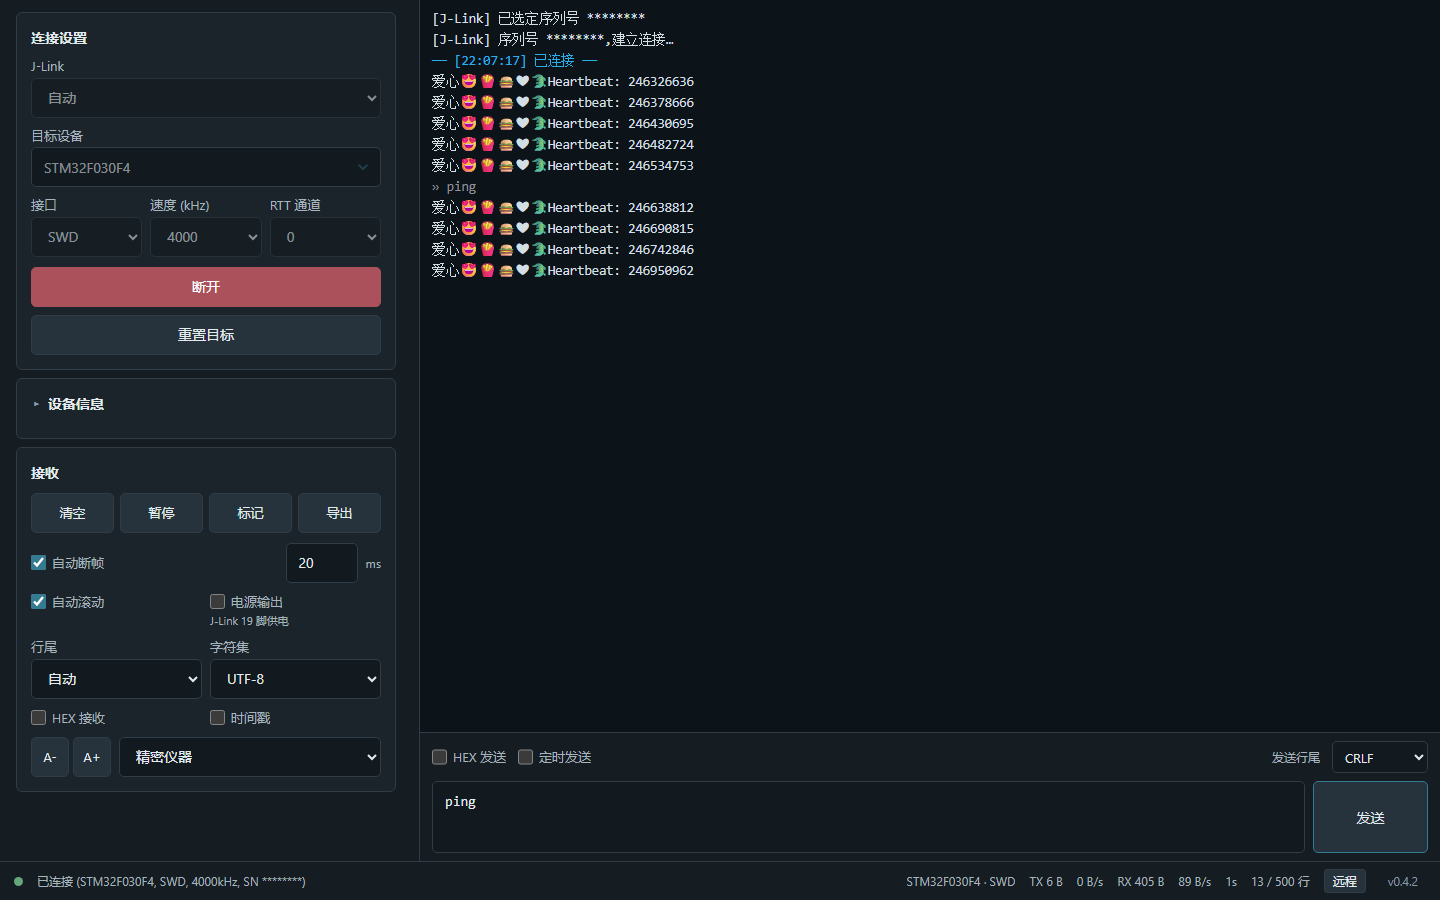
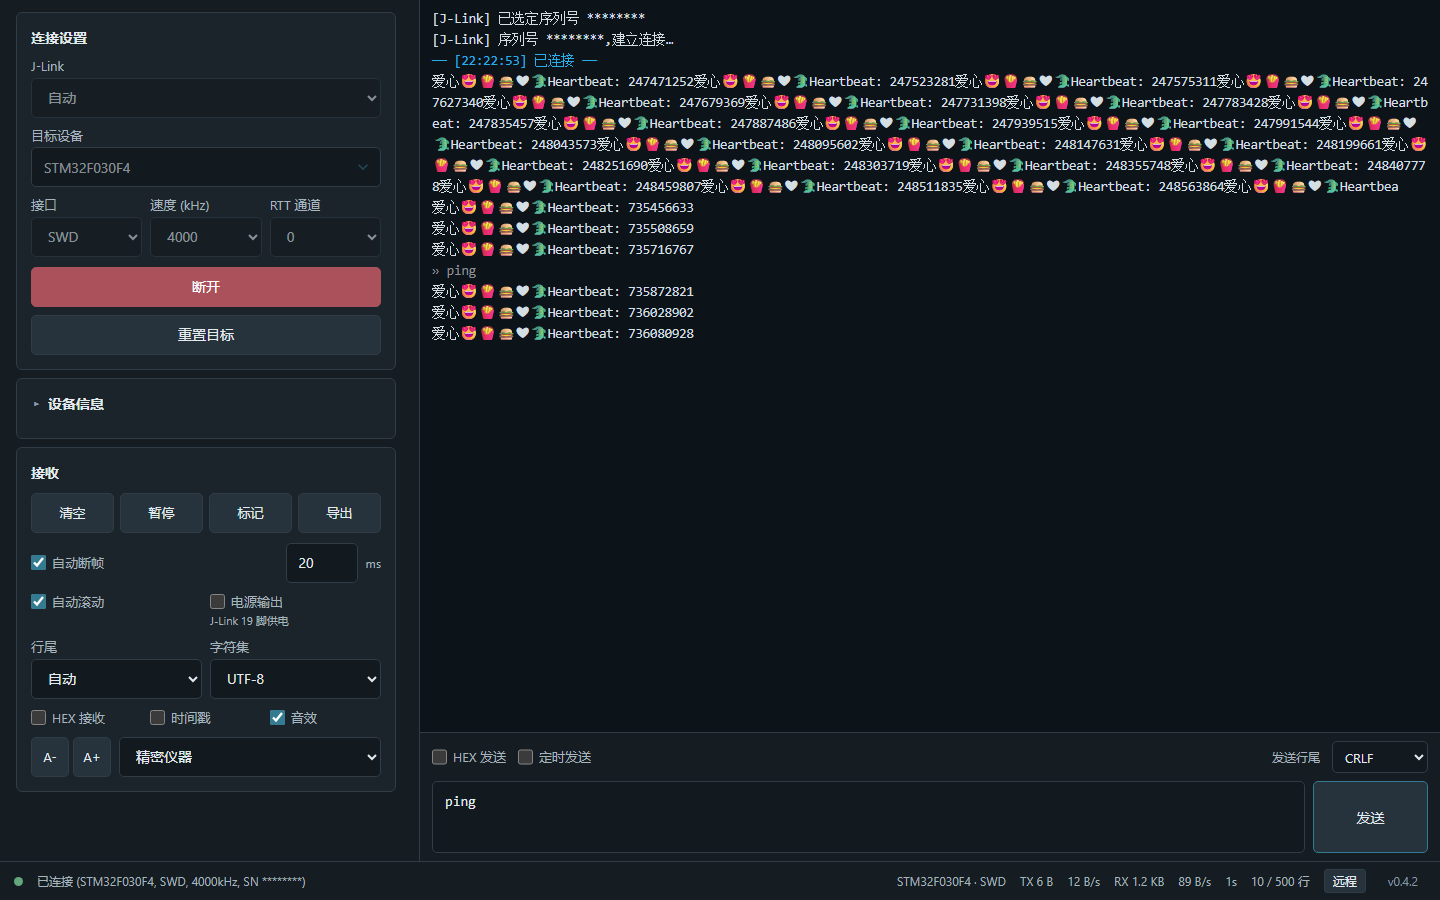
feat: 添加极简正弦波界面音效

Changed region(s): [[0.2812, 0.0622, 1.0, 0.3733], [0.625, 0.9644, 0.8125, 0.9956], [0.0938, 0.7778, 0.2188, 0.8089]]

diff --git a/ui/web/sound.js b/ui/web/sound.js
@@ -1,0 +1,69 @@
+import { $, lsGet, lsSet } from './api.js';
+
+// Minimal / Flat:每个反馈只发一只低音量正弦波,不用采样、扫频或和弦。
+const tones = {
+  connect: { frequency: 660, duration: 0.070, level: 0.030 },
+  disconnect: { frequency: 330, duration: 0.070, level: 0.030 },
+  send: { frequency: 880, duration: 0.040, level: 0.025 },
+  error: { frequency: 220, duration: 0.090, level: 0.030 },
+  enabled: { frequency: 520, duration: 0.035, level: 0.025 },
+};
+
+let context = null;
+let enabled = true;
+let initialized = false;
+
+// AudioContext 只能在用户手势里创建/恢复;页面加载和日志流绝不触碰音频。
+export function unlockSound() {
+  if (!enabled) return Promise.resolve(false);
+  const AudioContextClass = window.AudioContext || window.webkitAudioContext;
+  if (!AudioContextClass) return Promise.resolve(false);
+  try {
+    if (!context) context = new AudioContextClass();
+    if (context.state === 'running') return Promise.resolve(true);
+    return Promise.resolve(context.resume())
+      .then(() => context.state === 'running')
+      .catch(() => false);
+  } catch {
+    return Promise.resolve(false);
+  }
+}
+
+export function playSound(name) {
+  const tone = tones[name];
+  if (!enabled || !tone || !context || context.state !== 'running') return;
+  const start = context.currentTime;
+  const oscillator = context.createOscillator();
+  const gain = context.createGain();
+  oscillator.type = 'sine';
+  oscillator.frequency.setValueAtTime(tone.frequency, start);
+  // 4ms 起音 + 指数释音,避免方波式咔哒声;末尾保留 5ms 静音余量。
+  gain.gain.setValueAtTime(0.0001, start);
+  gain.gain.exponentialRampToValueAtTime(tone.level, start + 0.004);
+  gain.gain.exponentialRampToValueAtTime(0.0001, start + tone.duration);
+  oscillator.connect(gain);
+  gain.connect(context.destination);
+  oscillator.onended = () => {
+    oscillator.disconnect();
+    gain.disconnect();
+  };
+  oscillator.start(start);
+  oscillator.stop(start + tone.duration + 0.005);
+}
+
+export function initSound() {
+  if (initialized) return;
+  initialized = true;
+  enabled = lsGet('sound') !== '0';
+  const toggle = $('sound-enabled');
+  toggle.checked = enabled;
+  toggle.addEventListener('change', () => {
+    enabled = toggle.checked;
+    lsSet('sound', enabled ? '1' : '0');
+    if (enabled) unlockSound().then(ok => { if (ok) playSound('enabled'); });
+  });
+  document.addEventListener('pointerdown', unlockSound, { passive: true });
+  document.addEventListener('keydown', event => {
+    if (event.key === 'Enter' || event.key === ' ') unlockSound();
+  });
+}

diff --git a/ui/web/app.js b/ui/web/app.js
@@ -3,6 +3,7 @@ import { fmtBytes as fmt, fmtRate, fmtUptime } from './log-view.js';
 import { createSearch } from './search.js';
 import { hexToText, initDisplaySettings, textToHex } from './settings.js';
 import { initDialogs, showToast } from './dialogs.js';
+import { initSound, playSound } from './sound.js';
 
 const log = $('log');
 let connected = false, autoScroll = true;
@@ -105,7 +106,9 @@ function updateRates(m) {
 function zeroRates() { $('rx-rate').textContent = '0 B/s'; $('tx-rate').textContent = '0 B/s'; lastStats = null; }
 // 单只主按钮:「连接」(accent)⇄「断开」(红色系 danger)切换
 function setState(on, status) {
+  const changed = connected !== on;
   connected = on;
+  if (changed) playSound(on ? 'connect' : 'disconnect');
   $('dot').classList.toggle('on', on);
   if (status) $('status').textContent = status.replace('● ', '');
   // S1/S2:断开清零(速率归零显示、时长归 0、字节快照复位)
@@ -371,6 +374,7 @@ function send() {
       sendHistory.unshift(v);
       if (sendHistory.length > 50) sendHistory.pop();
       histIdx = -1; draft = '';
+      playSound('send');
     })
     .catch(error => {
       sendBox.classList.add('send-err');
@@ -417,6 +421,7 @@ $('timestamps').addEventListener('change', e => {
 });
 
 initDisplaySettings();
+initSound();
 
 const search = createSearch({ log, postSettings, timestamps: () => tsOn });
 

diff --git a/ui/web/styles.css b/ui/web/styles.css
@@ -127,7 +127,7 @@ details[open] > summary.title::before { content: '▾'; }
 .power-row { display: grid; grid-template-columns: 1fr 1fr; align-items: start; gap: 8px; }
 .power-group { display: flex; flex-direction: column; gap: 2px; }
 .power-note { color: var(--secondary); font-size: 11px; }
-.receive-toggles { display: grid; grid-template-columns: 1fr 1fr; gap: 8px; }
+.receive-toggles { display: grid; grid-template-columns: repeat(3, minmax(0, 1fr)); gap: 8px; }
 .theme-row { display: flex; align-items: center; gap: 8px; }
 .font-controls { display: flex; flex: none; gap: 4px; }
 .font-controls button { width: 38px; height: 40px; padding: 0; font-size: 13px; }

diff --git a/ui/web/index.html b/ui/web/index.html
@@ -82,6 +82,7 @@
         <div class="row2 receive-toggles">
           <label class="check"><input type="checkbox" id="hex-rx"> HEX 接收</label>
           <label class="check" title="行首显示本机到达时刻 [HH:MM:SS.mmm](仅开关打开后到达的行)"><input type="checkbox" id="timestamps"> 时间戳</label>
+          <label class="check" title="连接、断开、发送和错误的短促正弦波反馈"><input type="checkbox" id="sound-enabled" checked> 音效</label>
         </div>
         <div class="theme-row">
           <div class="font-controls" aria-label="日志字号">

diff --git a/ui/web/dialogs.js b/ui/web/dialogs.js
@@ -1,9 +1,11 @@
 import { $, getJson, postJson, request } from './api.js';
+import { playSound } from './sound.js';
 
 let toastEl = null;
 let toastTimer = 0;
 
 export function showToast(message, kind) {
+  if (kind !== 'ok') playSound('error');
   if (!toastEl) {
     toastEl = document.createElement('div');
     toastEl.id = 'toast';

diff --git a/tests/web/test_sound.py b/tests/web/test_sound.py
@@ -1,0 +1,150 @@
+"""极简音效:用户手势解锁、短正弦波、静音持久化。"""
+
+import json
+import urllib.request
+
+import pytest
+from playwright.sync_api import sync_playwright
+
+from qa_server import BASE, QAServer
+
+
+FAKE_AUDIO = """
+window.__tones = [];
+window.__audioContextCount = 0;
+class FakeParam {
+  constructor() { this.value = 0; }
+  setValueAtTime(value) { this.value = value; }
+  exponentialRampToValueAtTime(value) { this.value = value; }
+}
+class FakeOscillator {
+  constructor() { this.frequency = new FakeParam(); this.type = ''; }
+  connect() {}
+  disconnect() {}
+  start(time) { this.startedAt = time; window.__tones.push(this); }
+  stop(time) { this.stoppedAt = time; }
+}
+class FakeGain {
+  constructor() { this.gain = new FakeParam(); }
+  connect() {}
+  disconnect() {}
+}
+class FakeAudioContext {
+  constructor() {
+    window.__audioContextCount++;
+    this.state = 'suspended';
+    this.currentTime = 10;
+    this.destination = {};
+  }
+  resume() { this.state = 'running'; return Promise.resolve(); }
+  createOscillator() { return new FakeOscillator(); }
+  createGain() { return new FakeGain(); }
+}
+window.AudioContext = FakeAudioContext;
+window.webkitAudioContext = FakeAudioContext;
+"""
+
+
+@pytest.fixture(scope="module")
+def server(tmp_path_factory):
+    srv = QAServer(tmp_path_factory.mktemp("sound-qa"))
+    srv.start()
+    yield srv
+    srv.stop()
+
+
+@pytest.fixture(scope="module")
+def browser():
+    with sync_playwright() as p:
+        instance = p.chromium.launch()
+        yield instance
+        instance.close()
+
+
+@pytest.fixture
+def page(browser, server):
+    pg = browser.new_page(viewport={"width": 1440, "height": 900})
+    pg.add_init_script(FAKE_AUDIO)
+    pg.goto(BASE)
+    status = json.load(urllib.request.urlopen(BASE + "/api/status"))
+    if not status["connected"]:
+        pg.click("#connect-btn")
+    pg.wait_for_selector("#send-btn:not([disabled])")
+    yield pg
+    pg.close()
+
+
+def send(page, text="ping"):
+    page.fill("#send-text", text)
+    with page.expect_response(lambda r: "/api/send" in r.url, timeout=5000) as response:
+        page.click("#send-btn")
+    assert response.value.status == 200
+
+
+def test_fr29_no_audio_or_log_noise_before_user_gesture(page):
+    page.wait_for_selector("#log .row")
+    page.wait_for_timeout(200)
+    assert page.evaluate("window.__audioContextCount") == 0
+    assert page.evaluate("window.__tones.length") == 0
+
+
+def test_fr29_successful_send_plays_one_short_sine_tone(page):
+    send(page)
+    page.wait_for_function("window.__tones.length === 1")
+    tone = page.evaluate("""() => {
+      const t = window.__tones[0];
+      return {type: t.type, frequency: t.frequency.value,
+              durationMs: (t.stoppedAt - t.startedAt) * 1000};
+    }""")
+    assert tone["type"] == "sine"
+    assert 800 <= tone["frequency"] <= 1000
+    assert 20 <= tone["durationMs"] <= 100
+    assert page.input_value("#send-text") == "ping"
+
+
+def test_fr29_connection_and_disconnection_use_distinct_single_tones(page):
+    page.click("#connect-btn")
+    page.wait_for_function("document.querySelector('#connect-btn').textContent.trim() === '连接'")
+    page.wait_for_function("window.__tones.length === 1")
+    page.click("#connect-btn")
+    page.wait_for_function("document.querySelector('#connect-btn').textContent.trim() === '断开'")
+    page.wait_for_function("window.__tones.length === 2")
+    tones = page.evaluate(
+        "window.__tones.map(t => ({type: t.type, frequency: t.frequency.value}))"
+    )
+    assert [tone["type"] for tone in tones] == ["sine", "sine"]
+    assert tones[0]["frequency"] < tones[1]["frequency"]
+
+
+def test_fr29_sound_switch_persists_and_mutes_feedback(page):
+    page.uncheck("#sound-enabled")
+    assert page.evaluate("localStorage.getItem('web-sound')") == "0"
+    page.reload()
+    page.wait_for_selector("#send-btn:not([disabled])")
+    assert not page.locator("#sound-enabled").is_checked()
+    send(page)
+    page.wait_for_timeout(200)
+    assert page.evaluate("window.__tones.length") == 0
+
+    page.check("#sound-enabled")
+    assert page.evaluate("localStorage.getItem('web-sound')") == "1"
+    page.wait_for_function("window.__tones.length === 1")
+    page.reload()
+    page.wait_for_selector("#sound-enabled")
+    assert page.locator("#sound-enabled").is_checked()
+
+
+def test_fr29_send_error_uses_one_low_short_tone(page):
+    page.route("**/api/send", lambda route: route.fulfill(status=500, body="测试失败"))
+    page.fill("#send-text", "ping")
+    page.click("#send-btn")
+    page.wait_for_selector("#toast.show")
+    page.wait_for_function("window.__tones.length === 1")
+    tone = page.evaluate("""() => {
+      const t = window.__tones[0];
+      return {type: t.type, frequency: t.frequency.value,
+              durationMs: (t.stoppedAt - t.startedAt) * 1000};
+    }""")
+    assert tone["type"] == "sine"
+    assert 180 <= tone["frequency"] <= 300
+    assert 20 <= tone["durationMs"] <= 120

diff --git a/src/web.rs b/src/web.rs
@@ -120,6 +120,7 @@ const LOG_VIEW_JS: &str = include_str!("../ui/web/log-view.js");
 const SEARCH_JS: &str = include_str!("../ui/web/search.js");
 const SETTINGS_JS: &str = include_str!("../ui/web/settings.js");
 const DIALOGS_JS: &str = include_str!("../ui/web/dialogs.js");
+const SOUND_JS: &str = include_str!("../ui/web/sound.js");
 /// favicon(build 时内嵌,不依赖进程工作目录;运行时读 assets/ 在 cwd 不对时 404)
 const FAVICON: &[u8] = include_bytes!("../assets/app-32.png");
 /// 会话标记行颜色(与桌面版 MARK_COLOR 一致)
@@ -379,6 +380,10 @@ async fn serve(
         .route(
             "/dialogs.js",
             get(|| async { embedded_asset(DIALOGS_JS, "text/javascript; charset=utf-8") }),
+        )
+        .route(
+            "/sound.js",
+            get(|| async { embedded_asset(SOUND_JS, "text/javascript; charset=utf-8") }),
         )
         .route("/api/status", get(api_status))
         .route("/api/backends", get(api_backends))

diff --git a/tests/web/test_layout_accessibility.py b/tests/web/test_layout_accessibility.py
@@ -47,7 +47,7 @@ def test_viewport_has_no_horizontal_overflow(page, width, height):
 def test_receive_controls_belong_to_original_sidebar(page):
     selectors = [
         "#clear-btn", "#pause-btn", "#mark-btn", "#export-btn", "#theme",
-        "#auto-frame", "#rx-ending", "#encoding", "#hex-rx", "#timestamps",
+        "#auto-frame", "#rx-ending", "#encoding", "#hex-rx", "#timestamps", "#sound-enabled",
     ]
     for selector in selectors:
         assert page.evaluate(

diff --git a/tests/web/test_static_assets.py b/tests/web/test_static_assets.py
@@ -26,6 +26,7 @@ def server(tmp_path_factory):
         ("/search.js", "text/javascript"),
         ("/settings.js", "text/javascript"),
         ("/dialogs.js", "text/javascript"),
+        ("/sound.js", "text/javascript"),
     ],
 )
 def test_embedded_assets_have_executable_mime(server, path, mime):

diff --git a/README.md b/README.md
@@ -29,6 +29,7 @@
 - 发送:向所选下行通道发送数据,Enter 快捷发送,成功后保留原文便于修改和连续重发,行尾可选(CRLF / LF / CR / 无),HEX 发送、定时发送、发送历史 ↑↓
 - 日志:七套内置主题(深色/浅色/OLED 纯黑/护眼暖色/精密仪器/终端专注/实验室浅色)+ 自定义主题(themes/*.css 拖入即用),主题选择本机保存并在刷新后恢复;VS Code 式正则搜索(Ctrl+F)、拖选/右键复制、导出 .log、长行自动换行
 - 会话:连接/断开自动标记、手动标记、TX/RX 字节与速率、会话时长、日志时间戳开关
+- 音效:连接、断开、发送成功与错误使用低音量短正弦波反馈;不随日志流或定时发送播放,可关闭并经 localStorage 记忆
 - 双形态:桌面壳(窗口 + 托盘)与纯服务(`--no-window`)共用同一管理台;单实例互斥(端口)
 
 ## 使用前提
@@ -114,7 +115,7 @@ CI 配置见 [.github/workflows/release.yml](.github/workflows/release.yml)。
 | `src/device_db.rs` | 设备库后台枚举 + 磁盘缓存 + 多台调试器列表 |
 | `ui/web/index.html` | 管理台语义结构；连接/设备/接收侧栏、日志、发送区与状态栏 |
 | `ui/web/styles.css` | 七主题令牌、原左右布局、3px 滚动条与键盘焦点样式 |
-| `ui/web/*.js` | 原生 ES modules：全局协调、API、日志视图、搜索、显示设置与弹窗 |
+| `ui/web/*.js` | 原生 ES modules：全局协调、API、日志视图、搜索、显示设置、弹窗与合成音效 |
 | `examples/qa_server.rs` | 仅供 Web 黑盒测试的独立 QA 数据流，不参与正式后端注册 |
 | `examples/emu_check.rs` | 无界面验证:枚举调试器 + 选定/实际打开一致性 |
 | `examples/rtt_check.rs` | 无界面 RTT 直读(连接序列排障用) |

diff --git a/docs/product/spec.md b/docs/product/spec.md
@@ -37,6 +37,7 @@
 | FR-26 | 浏览器管理台(内嵌服务,桌面壳 / 纯服务共用):本机 HTTP 服务 + WS 推流,七主题/日志流/发送/暂停/清空全可操作;Playwright 黑盒测试覆盖(spec 条目命名) | ✔ |
 | FR-27 | 关于框:底栏版本号即按钮,原生 `<dialog>` 弹关于信息(名称/版本/一句话定位/许可证/仓库与更新日志外链);壳内外链经 /api/open-browser 打开(服务端仅放行本仓库 URL 前缀) | ✔ |
 | FR-28 | 远程访问:管理台即网页——底栏「远程」弹地址框(本机/局域网 URL + 一键复制);`--listen <ip>` 配置监听地址(默认 127.0.0.1 仅本机;0.0.0.0 开放局域网,无鉴权由 SECURITY.md 说明);/api/addr 返回端口/开放态/出网网卡 IP(UDP connect 探测) | ✔ |
+| FR-29 | 极简音效:连接/断开/发送成功/错误各使用单个低音量短正弦波;只在用户手势后解锁,不随日志流或定时发送播放;开关经 localStorage 持久化 | ✔ |
 
 ## UI/UI-x
 

diff --git a/CHANGELOG.md b/CHANGELOG.md
@@ -11,6 +11,9 @@
 - **产品精简与发送体验**:删除正式程序的 Demo 数据源、`--demo-log` 和界面数据源选择,
   正式后端固定为 J-Link;无硬件浏览器测试改用独立 QA 示例进程,不进入正式注册表。
   发送成功后保留输入框原文,便于修改和连续重发,发送历史规则不变
+- **极简音效**:连接、断开、发送成功和错误提供低音量、短促的单正弦波反馈;
+  Web Audio 即时合成,无音频资源或新依赖;只在用户手势后解锁,不随日志流或定时
+  发送播放,左栏开关经 localStorage 记忆
 - **状态一致性**:`/api/status` 增加 `paused`,刷新后暂停按钮由服务端真值恢复;
   设置请求先完整校验再应用,400 不再留下部分更新;业务偏好只由服务端持有,
   localStorage 仅保留主题、字号、时间戳等显示偏好
